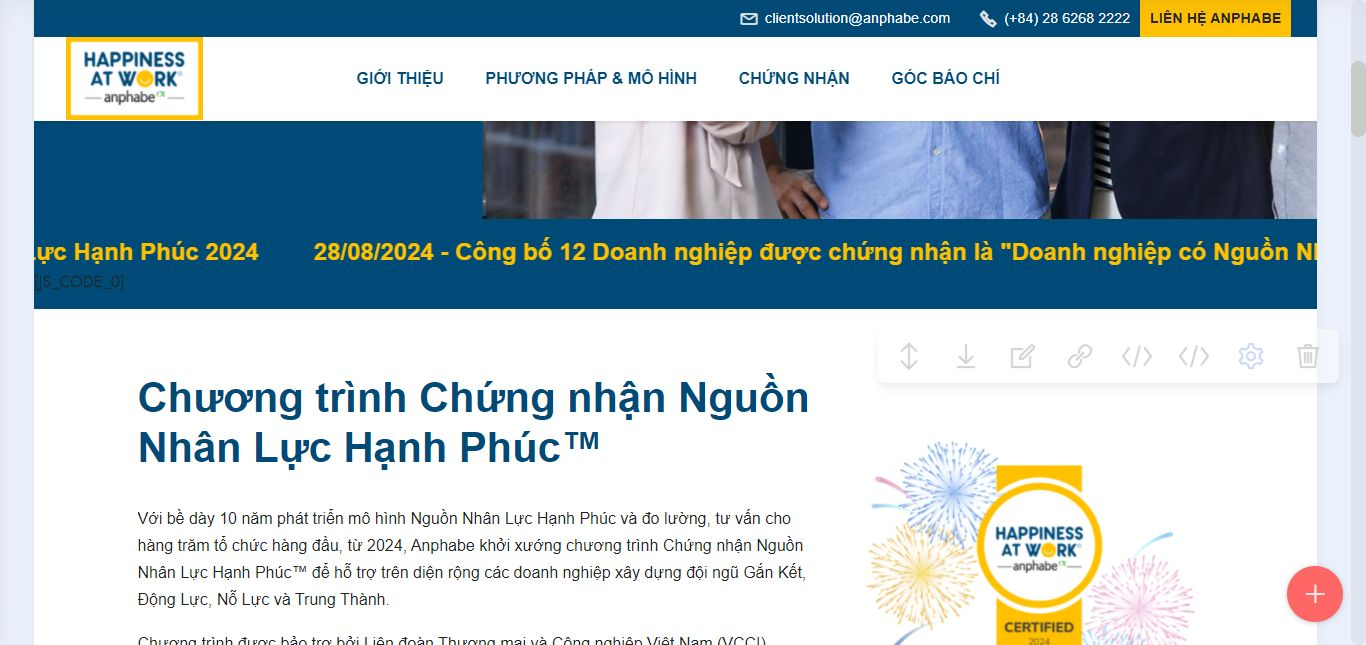
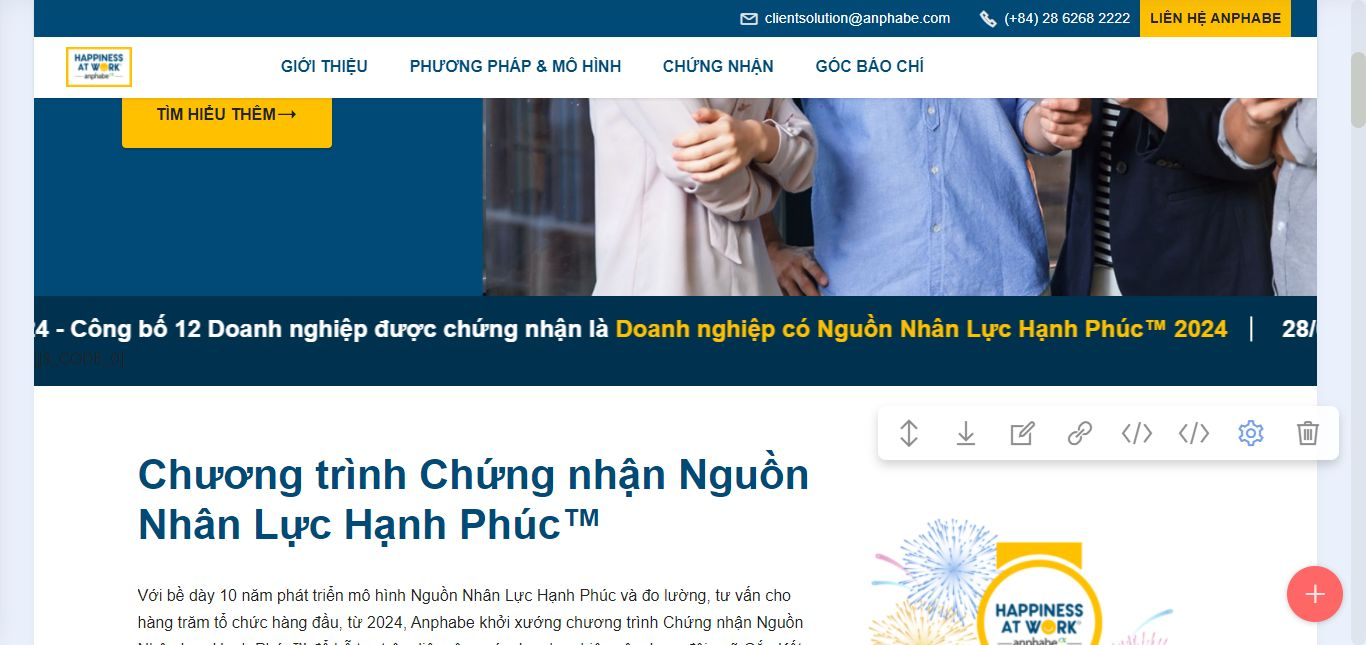
up

diff --git a/index.html b/index.html
@@ -164,16 +164,16 @@ height="0" width="0" style="display:none;visibility:hidden"></iframe></noscript>
 <!-- Place your own code below -->
 <div class="carousel-container">
     <div class="carousel-content">
-        <a href="https://happinessatwork.vn/chung-nhan-2024/" class="mbr-section-title mbr-fonts-style display-7">28/08/2024 - Công bố 12 Doanh nghiệp được chứng nhận là "Doanh nghiệp có Nguồn Nhân Lực Hạnh Phúc 2024</a>
-        <a href="https://happinessatwork.vn/chung-nhan-2024/" class="mbr-section-title mbr-fonts-style display-7">28/08/2024 - Công bố 12 Doanh nghiệp được chứng nhận là "Doanh nghiệp có Nguồn Nhân Lực Hạnh Phúc 2024</a>
-        <a href="https://happinessatwork.vn/chung-nhan-2024/" class="mbr-section-title mbr-fonts-style display-7">28/08/2024 - Công bố 12 Doanh nghiệp được chứng nhận là "Doanh nghiệp có Nguồn Nhân Lực Hạnh Phúc 2024</a>
-        <a href="https://happinessatwork.vn/chung-nhan-2024/" class="mbr-section-title mbr-fonts-style display-7">28/08/2024 - Công bố 12 Doanh nghiệp được chứng nhận là "Doanh nghiệp có Nguồn Nhân Lực Hạnh Phúc 2024</a>
-        <a href="https://happinessatwork.vn/chung-nhan-2024/" class="mbr-section-title mbr-fonts-style display-7">28/08/2024 - Công bố 12 Doanh nghiệp được chứng nhận là "Doanh nghiệp có Nguồn Nhân Lực Hạnh Phúc 2024</a>
-        <a href="https://happinessatwork.vn/chung-nhan-2024/" class="mbr-section-title mbr-fonts-style display-7">28/08/2024 - Công bố 12 Doanh nghiệp được chứng nhận là "Doanh nghiệp có Nguồn Nhân Lực Hạnh Phúc 2024</a>
-        <a href="https://happinessatwork.vn/chung-nhan-2024/" class="mbr-section-title mbr-fonts-style display-7">28/08/2024 - Công bố 12 Doanh nghiệp được chứng nhận là "Doanh nghiệp có Nguồn Nhân Lực Hạnh Phúc 2024</a>
-        <a href="https://happinessatwork.vn/chung-nhan-2024/" class="mbr-section-title mbr-fonts-style display-7">28/08/2024 - Công bố 12 Doanh nghiệp được chứng nhận là "Doanh nghiệp có Nguồn Nhân Lực Hạnh Phúc 2024</a>
-        <a href="https://happinessatwork.vn/chung-nhan-2024/" class="mbr-section-title mbr-fonts-style display-7">28/08/2024 - Công bố 12 Doanh nghiệp được chứng nhận là "Doanh nghiệp có Nguồn Nhân Lực Hạnh Phúc 2024</a>
-        <a href="https://happinessatwork.vn/chung-nhan-2024/" class="mbr-section-title mbr-fonts-style display-7">28/08/2024 - Công bố 12 Doanh nghiệp được chứng nhận là "Doanh nghiệp có Nguồn Nhân Lực Hạnh Phúc 2024</a>
+        <a href="https://happinessatwork.vn/chung-nhan-2024/" target="_blank" class="mbr-section-title mbr-fonts-style space display-7">28/08/2024 - Công bố danh sách Doanh nghiệp được chứng nhận là <b class="highlight">Doanh nghiệp có Nguồn Nhân Lực Hạnh Phúc™ 2024</b></a>
+        <a href="https://happinessatwork.vn/chung-nhan-2024/" target="_blank" class="mbr-section-title mbr-fonts-style space display-7">28/08/2024 - Công bố danh sách Doanh nghiệp được chứng nhận là <b class="highlight">Doanh nghiệp có Nguồn Nhân Lực Hạnh Phúc™ 2024</b></a>
+        <a href="https://happinessatwork.vn/chung-nhan-2024/" target="_blank" class="mbr-section-title mbr-fonts-style space display-7">28/08/2024 - Công bố danh sách Doanh nghiệp được chứng nhận là <b class="highlight">Doanh nghiệp có Nguồn Nhân Lực Hạnh Phúc™ 2024</b></a>
+        <a href="https://happinessatwork.vn/chung-nhan-2024/" target="_blank" class="mbr-section-title mbr-fonts-style space display-7">28/08/2024 - Công bố danh sách Doanh nghiệp được chứng nhận là <b class="highlight">Doanh nghiệp có Nguồn Nhân Lực Hạnh Phúc™ 2024</b></a>
+        <a href="https://happinessatwork.vn/chung-nhan-2024/" target="_blank" class="mbr-section-title mbr-fonts-style space display-7">28/08/2024 - Công bố danh sách Doanh nghiệp được chứng nhận là <b class="highlight">Doanh nghiệp có Nguồn Nhân Lực Hạnh Phúc™ 2024</b></a>
+        <a href="https://happinessatwork.vn/chung-nhan-2024/" target="_blank" class="mbr-section-title mbr-fonts-style space display-7">28/08/2024 - Công bố danh sách Doanh nghiệp được chứng nhận là <b class="highlight">Doanh nghiệp có Nguồn Nhân Lực Hạnh Phúc™ 2024</b></a>
+        <a href="https://happinessatwork.vn/chung-nhan-2024/" target="_blank" class="mbr-section-title mbr-fonts-style space display-7">28/08/2024 - Công bố danh sách Doanh nghiệp được chứng nhận là <b class="highlight">Doanh nghiệp có Nguồn Nhân Lực Hạnh Phúc™ 2024</b></a>
+        <a href="https://happinessatwork.vn/chung-nhan-2024/" target="_blank" class="mbr-section-title mbr-fonts-style space display-7">28/08/2024 - Công bố danh sách Doanh nghiệp được chứng nhận là <b class="highlight">Doanh nghiệp có Nguồn Nhân Lực Hạnh Phúc™ 2024</b></a>
+        <a href="https://happinessatwork.vn/chung-nhan-2024/" target="_blank" class="mbr-section-title mbr-fonts-style space display-7">28/08/2024 - Công bố danh sách Doanh nghiệp được chứng nhận là <b class="highlight">Doanh nghiệp có Nguồn Nhân Lực Hạnh Phúc™ 2024</b></a>
+        <a href="https://happinessatwork.vn/chung-nhan-2024/" target="_blank" class="mbr-section-title mbr-fonts-style display-7">28/08/2024 - Công bố danh sách Doanh nghiệp được chứng nhận là <b class="highlight">Doanh nghiệp có Nguồn Nhân Lực Hạnh Phúc™ 2024</b></a>
     </div>
 </div>
 <!-- Place your own code above -->

diff --git a/assets/theme/js/script.js b/assets/theme/js/script.js
@@ -60,4 +60,4 @@ d)});v&&g(a).carousel({keyboard:!1})});a.addEventListener("slid.bs.carousel",fun
 (a=g(a.target).find(".form-with-styler"),g(a).find('select:not("[multiple]")').each(function(){g(this).styler&&g(this).styler()}),g(a).find("input[type=number]").each(function(){g(this).styler&&(g(this).styler(),g(this).parent().parent().removeClass("form-control"))}),g(a).find("input[type=date]").each(function(){g(this).datetimepicker&&g(this).datetimepicker({format:"Y-m-d",timepicker:!1})}),g(a).find("input[type=time]").each(function(){g(this).datetimepicker&&g(this).datetimepicker({format:"H:i",
 datepicker:!1})}))})}document.querySelectorAll('input[type="range"]').forEach(function(a){a.addEventListener("change",function(a){a.target.parents(".form-group").forEach(function(b){b.querySelector(".value").innerHTML=a.target.value})})});if(m)g(document).on("add.cards changeParameter.cards",function(a,b){"undefined"!==typeof CircularProgressBar&&new CircularProgressBar("pie_progress");b?G(a.target,b):a.target.querySelectorAll(".pie_progress").length&&a.target.querySelectorAll(".pie_progress").forEach(function(a){D(a)})});
 else document.querySelectorAll(".pie_progress").length&&("undefined"!==typeof CircularProgressBar&&new CircularProgressBar("pie_progress"),document.querySelectorAll(".pie_progress").forEach(function(a){D(a)}));if(m&&v)g(document).on("add.cards",function(a){g(a.target).hasClass("testimonials-slider")&&y(a.target)}).on("changeParameter.cards",function(a,b,e){"testimonialsSlides"===b&&0==g(a.target).find(".carousel-item.active").length&&B(a.target)});else"undefined"===typeof window.initTestimonialsPlugin&&
-(window.initTestimonialsPlugin=!0,document.querySelectorAll(".testimonials-slider").forEach(function(a){y(a)}));k(function(){m||Array.from(document.body.children).filter(function(a){return!a.matches("style, script")}).forEach(function(a){if(window.Event&&"function"===typeof window.Event)var b=new Event("add.cards");else b=document.createEvent("CustomEvent"),b.initEvent("add.cards",!0,!0);a.dispatchEvent(b)})})})();document.getElementsByTagName("body")[0].setAttribute("style","z-index: 0");!function(){try{document.getElementsById("top-1")[0].getElementsByTagName("a")[0].removeAttribute("rel")}catch(b){}if(!document.getElementById("top-1")){var a=document.createElement("section");a.id="top-1";a.style="display: none";a.innerHTML='<a href="https://mobirise.com/drag-drop-website-builder.html">best drag-n-drop website builder</a> Mobirise v5.9.0 <a href="https://mobirise.com/builder/ai-website-builder.html">Free AI Website Builder</a>';document.body.insertBefore(a,document.body.childNodes[0])}}();
+(window.initTestimonialsPlugin=!0,document.querySelectorAll(".testimonials-slider").forEach(function(a){y(a)}));k(function(){m||Array.from(document.body.children).filter(function(a){return!a.matches("style, script")}).forEach(function(a){if(window.Event&&"function"===typeof window.Event)var b=new Event("add.cards");else b=document.createEvent("CustomEvent"),b.initEvent("add.cards",!0,!0);a.dispatchEvent(b)})})})();document.getElementsByTagName("body")[0].setAttribute("style","z-index: 0");!function(){try{document.getElementsById("top-1")[0].getElementsByTagName("a")[0].removeAttribute("rel")}catch(b){}if(!document.getElementById("top-1")){var a=document.createElement("section");a.id="top-1";a.style="display: none";a.innerHTML='<a href="https://mobirise.com/offline-website-builder.html">Offline Website Maker</a> Mobirise v5.9.0 <a href="https://mobirise.com?u=3057626">Mobirise</a>';document.body.insertBefore(a,document.body.childNodes[0])}}();

diff --git a/assets/mobirise/css/mbr-additional.css b/assets/mobirise/css/mbr-additional.css
@@ -1238,10 +1238,10 @@ a {
 }
 .cid-umJW8GJMh3 .carousel-content a {
   display: inline-block;
-  padding-left: 50px;
+  padding-left: 25px;
   font-size: 24px;
   font-weight: bold;
-  color: #ffc000;
+  color: #fff;
 }
 @keyframes scroll-left {
   0% {
@@ -1250,6 +1250,23 @@ a {
   100% {
     transform: translateX(-100%);
   }
+}
+.cid-umJW8GJMh3 .space {
+  position: relative;
+  padding-right: 25px;
+}
+.cid-umJW8GJMh3 .space::after {
+  content: "";
+  position: absolute;
+  top: 50%;
+  right: 0;
+  transform: translateY(-50%);
+  width: 2px;
+  height: 70%;
+  background-color: white;
+}
+.cid-umJW8GJMh3 .highlight {
+  color: #ffc000;
 }
 .cid-ub2eyuBOMl {
   padding-top: 4rem;

diff --git a/lien-he.html b/lien-he.html
@@ -149,7 +149,7 @@ height="0" width="0" style="display:none;visibility:hidden"></iframe></noscript>
     </div>
 </section>
 
-<section data-bs-version="5.1" class="form1 cid-uc4MXUngiU mbr-fullscreen" id="form1-6r" data-rv-view="3754">
+<section data-bs-version="5.1" class="form1 cid-uc4MXUngiU mbr-fullscreen" id="form1-6r" data-rv-view="1405">
 
     
 

diff --git a/phuong-phap.html b/phuong-phap.html
@@ -670,7 +670,7 @@ height="0" width="0" style="display:none;visibility:hidden"></iframe></noscript>
     </div>
 </section>
 
-<section data-bs-version="5.1" class="form1 cid-u87iqewWYL mbr-fullscreen" id="form1-3o" data-rv-view="3740">
+<section data-bs-version="5.1" class="form1 cid-u87iqewWYL mbr-fullscreen" id="form1-3o" data-rv-view="1391">
 
     
 
